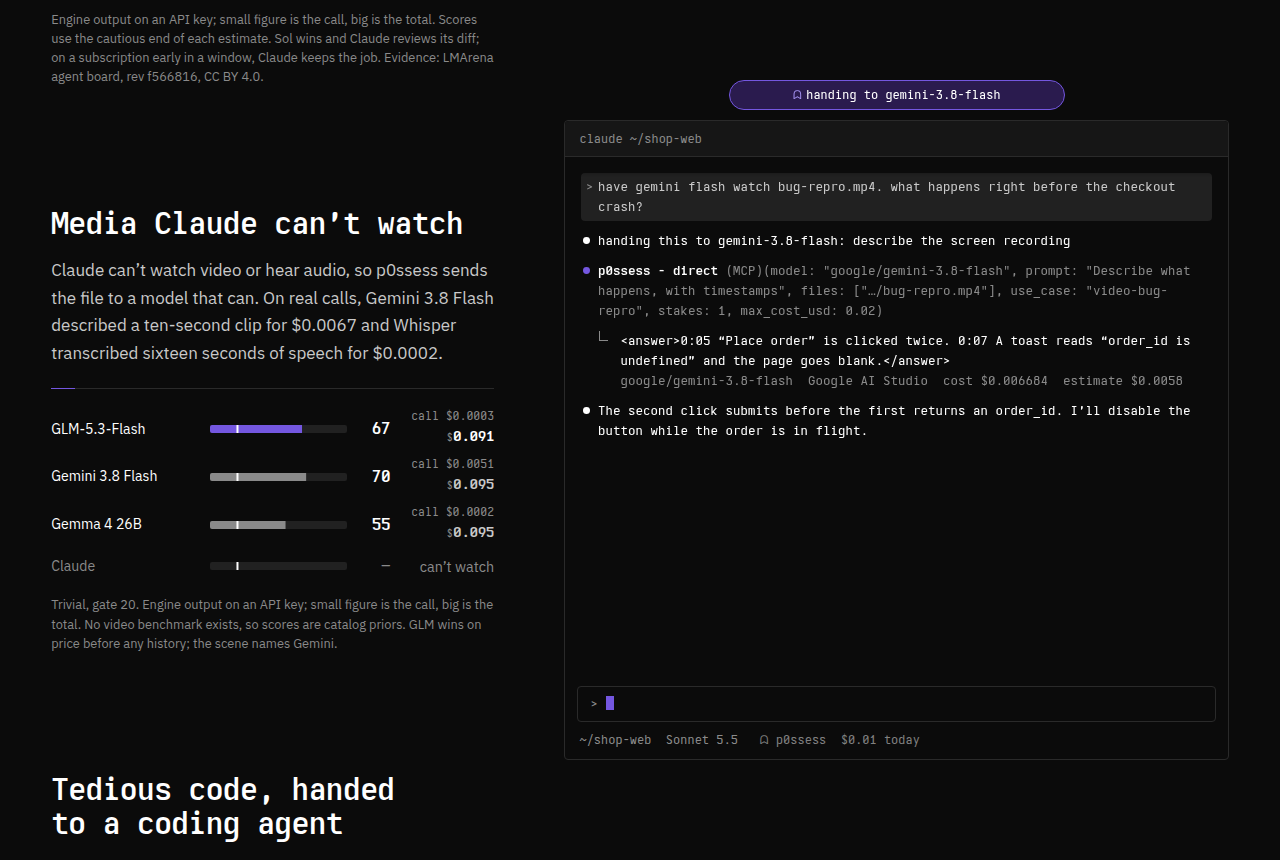
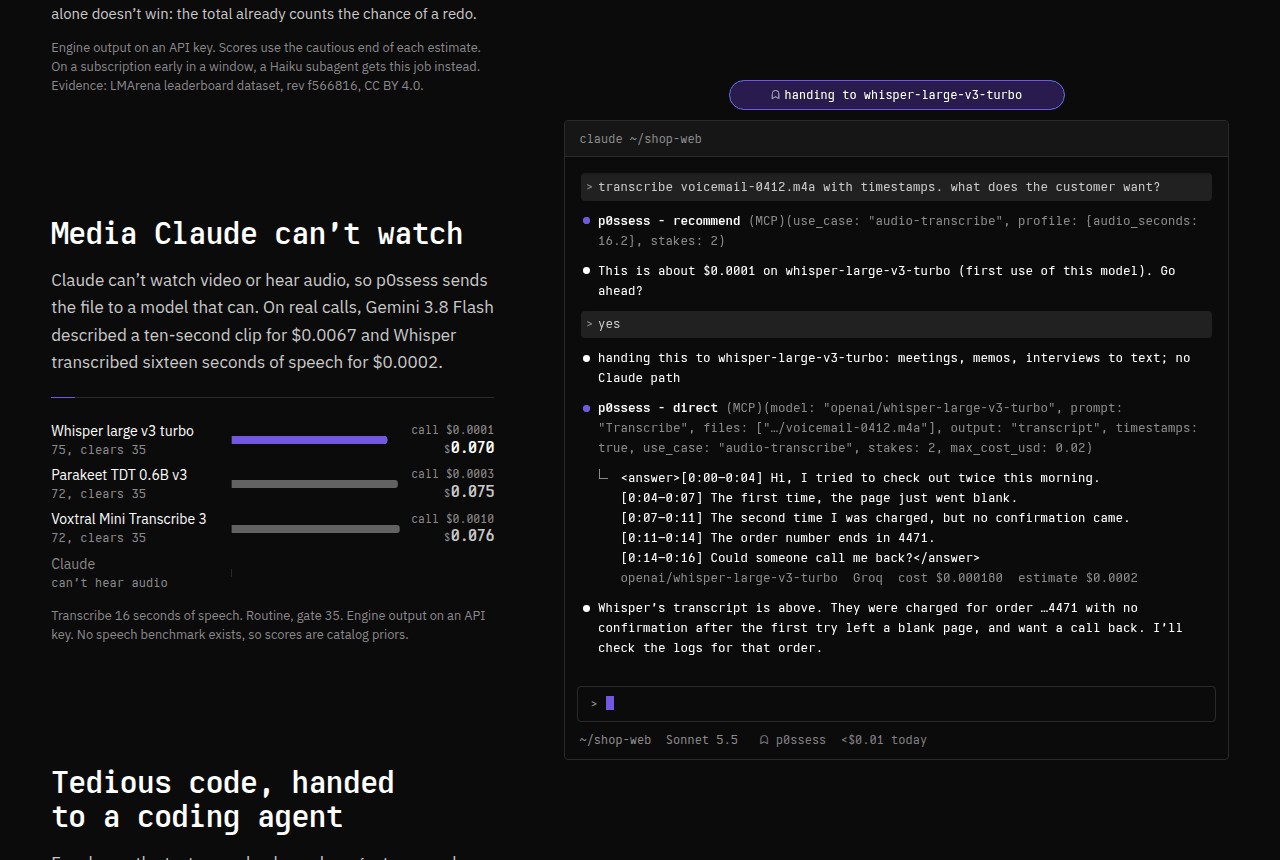
site: charts drawn by total, a PDF example for the engine, audio for media
Every cost comparison now sorts by total with the winner on top, and the
bar is the total, so the shortest bar wins. Each score is a small readout
against its gate ("98, clears 35"). The engine example is pulling tables
from a 50-page PDF: GPT-6 Luna scores 98 to Claude's 99 for a quarter of
the total, with the verbatim engine output in its scene. The media example
is a voicemail transcribed by Whisper, the model its chart picks. The
"Some work stays with Claude" chart is now one sentence, and the engine
heading drops "The" and fits one line on desktop.

diff --git a/site/index.html b/site/index.html
@@ -49,8 +49,8 @@
 
 <section class="sec engine" id="engine" aria-labelledby="engine-h">
   <div class="copy">
-    <h2 id="engine-h">The Predictive Model Engine</h2>
-    <p>Every model that could do a job, Claude included, gets a confidence score out of 100: a cautious estimate that its result will be accepted, from licensed benchmarks, the use-case research and your own history.</p>
+    <h2 id="engine-h">Predictive Model Engine</h2>
+    <p>Every model that could do a job, Claude included, gets a score out of 100: a cautious estimate that its result will be accepted, from licensed benchmarks, the use-case research and your own history.</p>
     <p>Each severity has a gate. Below it, a model isn’t considered. Critical work stays with Claude unless your rule names a model.</p>
     <table class="gates">
       <thead><tr><th scope="col">Severity</th><th scope="col">For example</th><th scope="col">Gate</th><th scope="col">A mistake costs</th></tr></thead>
@@ -61,35 +61,37 @@
         <tr><th scope="row">Critical</th><td data-label="For example">Auth, firewalls, production, money</td><td data-label="Gate">80</td><td data-label="A mistake costs">$10</td></tr>
       </tbody>
     </table>
-    <p>Above the gate, the lowest total wins. Total = the call, plus the Claude time it uses or saves, plus the risk of a redo.</p>
+    <p>Above the gate, the lowest total wins. The total adds the call, the Claude time it uses or saves, and the risk of a redo.</p>
     <figure class="gauge" aria-labelledby="gauge-cap">
-      <p class="gauge-task">Build a feature from a spec; the tests decide. Important, so the gate is 60.</p>
-      <p class="gauge-def" id="total-def">Small figure: the call’s price. Big figure: the total that decides.</p>
-      <div class="axis" aria-hidden="true"><span class="t20">20</span><span class="t35">35</span><span class="t60">60</span><span class="t80">80</span></div>
+      <p class="gauge-task">Pull the tables from a 50-page PDF statement into CSV. Routine, so the gate is 35.</p>
+      <p class="gauge-def">Bars and big figures are totals; the shortest bar wins. Small print: the score and the call’s price.</p>
       <ol class="bars">
-      <li class="pass"><span class="who">Claude Opus 5.5 <small>as an agent</small></span><span class="track" aria-hidden="true"><svg viewBox="0 0 100 10" preserveAspectRatio="none"><rect class="fill" width="82" height="10"/><line class="gate-line" x1="60" x2="60" y1="0" y2="10" vector-effect="non-scaling-stroke"/></svg></span><span class="n">82</span><span class="cost"><span class="call">call $0.84</span><span class="tot"><small>$</small>1.03</span></span><span class="sr-only">clears the gate</span></li>
-      <li class="pass"><span class="who">Claude Sonnet 5.5 <small>in your session</small></span><span class="track" aria-hidden="true"><svg viewBox="0 0 100 10" preserveAspectRatio="none"><rect class="fill" width="71" height="10"/><line class="gate-line" x1="60" x2="60" y1="0" y2="10" vector-effect="non-scaling-stroke"/></svg></span><span class="n">71</span><span class="cost"><span class="call">Claude usage</span><span class="tot"><small>$</small>0.54</span></span><span class="sr-only">clears the gate</span></li>
-      <li class="pass win"><span class="who">GPT-6.1 Sol</span><span class="track" aria-hidden="true"><svg viewBox="0 0 100 10" preserveAspectRatio="none"><rect class="fill" width="65" height="10"/><line class="gate-line" x1="60" x2="60" y1="0" y2="10" vector-effect="non-scaling-stroke"/></svg></span><span class="n">65</span><span class="cost"><span class="call">call $0.21</span><span class="tot"><small>$</small>0.51</span></span><span class="sr-only">clears the gate; lowest total, gets the job</span></li>
-      <li class="fail"><span class="who">DeepSeek V4.1 Flash</span><span class="track" aria-hidden="true"><svg viewBox="0 0 100 10" preserveAspectRatio="none"><rect class="fill" width="40" height="10"/><line class="gate-line" x1="60" x2="60" y1="0" y2="10" vector-effect="non-scaling-stroke"/></svg></span><span class="n">40</span><span class="cost">below the gate</span><span class="sr-only">below the gate</span></li>
-      <li class="fail"><span class="who">GLM-5.3-Flash</span><span class="track" aria-hidden="true"><svg viewBox="0 0 100 10" preserveAspectRatio="none"><rect class="fill" width="35" height="10"/><line class="gate-line" x1="60" x2="60" y1="0" y2="10" vector-effect="non-scaling-stroke"/></svg></span><span class="n">35</span><span class="cost">below the gate</span><span class="sr-only">below the gate</span></li>
+      <li class="win"><span class="who">GPT-6 Luna<span class="score"><span class="sr-only">score </span>98, clears 35</span></span><span class="len" aria-hidden="true"><svg width="100%" height="100%"><rect width="24.4%" height="100%" rx="3"/><rect width="4" height="100%"/></svg></span><span class="cost"><span class="call">call $0.0082</span><span class="tot"><small>$</small>0.072</span></span><span class="sr-only">, lowest total, gets the job</span></li>
+      <li><span class="who">Claude Haiku 5.5 <small>subagent</small><span class="score"><span class="sr-only">score </span>97, clears 35</span></span><span class="len" aria-hidden="true"><svg width="100%" height="100%"><rect width="27.7%" height="100%" rx="3"/><rect width="4" height="100%"/></svg></span><span class="cost"><span class="call">Claude usage</span><span class="tot"><small>$</small>0.082</span></span></li>
+      <li><span class="who">Gemini 3.8 Flash<span class="score"><span class="sr-only">score </span>100, clears 35</span></span><span class="len" aria-hidden="true"><svg width="100%" height="100%"><rect width="41.6%" height="100%" rx="3"/><rect width="4" height="100%"/></svg></span><span class="cost"><span class="call">call $0.062</span><span class="tot"><small>$</small>0.123</span></span></li>
+      <li><span class="who">Gemini 4 Argon<span class="score"><span class="sr-only">score </span>100, clears 35</span></span><span class="len" aria-hidden="true"><svg width="100%" height="100%"><rect width="74.8%" height="100%" rx="3"/><rect width="4" height="100%"/></svg></span><span class="cost"><span class="call">call $0.16</span><span class="tot"><small>$</small>0.221</span></span></li>
+      <li><span class="who">Claude Sonnet 5.5 <small>in session</small><span class="score"><span class="sr-only">score </span>99, clears 35</span></span><span class="len" aria-hidden="true"><svg width="100%" height="100%"><rect width="100.0%" height="100%" rx="3"/><rect width="4" height="100%"/></svg></span><span class="cost"><span class="call">Claude usage</span><span class="tot"><small>$</small>0.296</span></span></li>
       </ol>
-      <figcaption id="gauge-cap">Engine output on an API key; small figure is the call, big is the total. Scores use the cautious end of each estimate. Sol wins and Claude reviews its diff; on a subscription early in a window, Claude keeps the job. Evidence: LMArena agent board, rev f566816, CC BY 4.0.</figcaption>
+      <p class="gauge-note">GPT-6 Luna does it about as well as Claude for a quarter of the total, and under a cent in cash. Above the gate, a higher score alone doesn’t win: the total already counts the chance of a redo.</p>
+      <figcaption id="gauge-cap">Engine output on an API key. Scores use the cautious end of each estimate. On a subscription early in a window, a Haiku subagent gets this job instead. Evidence: LMArena leaderboard dataset, rev f566816, CC BY 4.0.</figcaption>
     </figure>
   </div>
   <details class="scene-wrap"><summary>Show the session</summary>
-  <figure class="scene" data-title="claude ~/billing-api" data-st="idle|" aria-labelledby="t-engine">
-    <figcaption class="sr-only" id="t-engine">Transcript: the engine’s ranking for a feature, and why a cheap model is missing.</figcaption>
+  <figure class="scene" data-title="claude ~/books" data-st="idle|" aria-labelledby="t-engine">
+    <figcaption class="sr-only" id="t-engine">Transcript: the engine’s ranking for pulling tables from a PDF, and what Claude would cost.</figcaption>
     <div class="log">
-      <p class="l in bang">p0ssess engine recommend --use-case code-implement-feature --stakes 3 --top 2</p>
-      <p class="l out" data-d="700">code-implement-feature (#8, agent) · stakes 3 · λ 1.00 (API-key plan: Claude at list price)</p>
-      <p class="l out c">   route   model              total    cash     claude   risk     p_fail</p>
-      <p class="l out c">1  agent   gpt-6.1-sol        $0.5101  $0.2110  $0.1180  $0.1811  0.30    ask: up to $0.633, above the $0.02 per-task limit; edits your code; first use of this model</p>
-      <p class="l out c">2  claude  claude-sonnet-5.5  $0.5395  $0.0000  $0.4000  $0.1395  0.23</p>
-      <p class="l out c">pick: handing this to gpt-6.1-sol: feature or function from a spec; tests must pass</p>
-      <p class="l in">why isn’t deepseek flash on the list?</p>
-      <p class="l ai" data-d="900">It scores 40, under the gate of 60 for important work. The engine says “p_fail up to 0.60 is above the stakes-3 ceiling 0.40”. Scores use the cautious end of each estimate, so Sol’s 0.30 counts as 65.</p>
+      <p class="l in bang">p0ssess engine recommend --use-case pdf-table-extract --top 2</p>
+      <p class="l out" data-d="700">pdf-table-extract (#93, media) · stakes 2 · λ 1.00 (API-key plan: Claude at list price)</p>
+      <p class="l out c">   route            model             total    cash     claude   risk     p_fail</p>
+      <p class="l out c">1  direct           gpt-6-luna        $0.0723  $0.0082  $0.0608  $0.0033  0.01    ask: up to $0.025, above the $0.02 per-task limit; first use of this model</p>
+      <p class="l out c">2  claude-subagent  claude-haiku-5.5  $0.0820  $0.0000  $0.0773  $0.0047  0.02</p>
+      <p class="l out c">pick: handing this to gpt-6-luna: tables from PDF reports or statements to CSV</p>
+      <p class="l out c">      best: gpt-6-luna via direct, $0.008 cash, a mechanical check decides; p_fail 0.01 (LMArena longer query 1448 vs best 1543)</p>
+      <p class="l in">and if you did it yourself?</p>
+      <p class="l tool" data-d="600"><b>p0ssess - recommend</b> (MCP)(use_case: "pdf-table-extract", stakes: 2, top: 10)</p>
+      <p class="l ai" data-d="800">I rank 10th: $0.2959 all in, for a score of 99. That’s about four times Luna’s $0.0723 for 98. A check recomputes the column totals against the printed ones, so a bad CSV gets caught.</p>
     </div>
-    <p class="foot"><span class="me">~/billing-api  Sonnet 5.5</span></p>
+    <p class="foot"><span class="me">~/books  Sonnet 5.5</span></p>
   </figure>
   </details>
 </section>
@@ -100,26 +102,33 @@
     <p>Claude can’t watch video or hear audio, so p0ssess sends the file to a model that can. On real calls, Gemini 3.8 Flash described a ten-second clip for $0.0067 and Whisper transcribed sixteen seconds of speech for $0.0002.</p>
     <figure class="cmp" aria-labelledby="cmp-media">
       <ol class="bars mini">
-      <li class="pass win"><span class="who">GLM-5.3-Flash</span><span class="track" aria-hidden="true"><svg viewBox="0 0 100 10" preserveAspectRatio="none"><rect class="fill" width="67" height="10"/><line class="gate-line" x1="20" x2="20" y1="0" y2="10" vector-effect="non-scaling-stroke"/></svg></span><span class="n">67</span><span class="cost"><span class="call">call $0.0003</span><span class="tot"><small>$</small>0.091</span></span><span class="sr-only">clears the gate; lowest real cost</span></li>
-      <li class="pass"><span class="who">Gemini 3.8 Flash</span><span class="track" aria-hidden="true"><svg viewBox="0 0 100 10" preserveAspectRatio="none"><rect class="fill" width="70" height="10"/><line class="gate-line" x1="20" x2="20" y1="0" y2="10" vector-effect="non-scaling-stroke"/></svg></span><span class="n">70</span><span class="cost"><span class="call">call $0.0051</span><span class="tot"><small>$</small>0.095</span></span><span class="sr-only">clears the gate</span></li>
-      <li class="pass"><span class="who">Gemma 4 26B</span><span class="track" aria-hidden="true"><svg viewBox="0 0 100 10" preserveAspectRatio="none"><rect class="fill" width="55" height="10"/><line class="gate-line" x1="20" x2="20" y1="0" y2="10" vector-effect="non-scaling-stroke"/></svg></span><span class="n">55</span><span class="cost"><span class="call">call $0.0002</span><span class="tot"><small>$</small>0.095</span></span><span class="sr-only">clears the gate</span></li>
-      <li class="none"><span class="who">Claude</span><span class="track" aria-hidden="true"><svg viewBox="0 0 100 10" preserveAspectRatio="none"><line class="gate-line" x1="20" x2="20" y1="0" y2="10" vector-effect="non-scaling-stroke"/></svg></span><span class="n">–</span><span class="cost">can’t watch</span><span class="sr-only">cannot take video</span></li>
+      <li class="win"><span class="who">Whisper large v3 turbo<span class="score"><span class="sr-only">score </span>75, clears 35</span></span><span class="len" aria-hidden="true"><svg width="100%" height="100%"><rect width="92.7%" height="100%" rx="3"/><rect width="4" height="100%"/></svg></span><span class="cost"><span class="call">call $0.0001</span><span class="tot"><small>$</small>0.070</span></span><span class="sr-only">, lowest total, gets the job</span></li>
+      <li><span class="who">Parakeet TDT 0.6B v3<span class="score"><span class="sr-only">score </span>72, clears 35</span></span><span class="len" aria-hidden="true"><svg width="100%" height="100%"><rect width="98.9%" height="100%" rx="3"/><rect width="4" height="100%"/></svg></span><span class="cost"><span class="call">call $0.0003</span><span class="tot"><small>$</small>0.075</span></span></li>
+      <li><span class="who">Voxtral Mini Transcribe 3<span class="score"><span class="sr-only">score </span>72, clears 35</span></span><span class="len" aria-hidden="true"><svg width="100%" height="100%"><rect width="100.0%" height="100%" rx="3"/><rect width="4" height="100%"/></svg></span><span class="cost"><span class="call">call $0.0010</span><span class="tot"><small>$</small>0.076</span></span></li>
+      <li class="none"><span class="who">Claude<span class="score">can’t hear audio</span></span><span class="len" aria-hidden="true"></span><span class="cost"></span></li>
       </ol>
-      <figcaption id="cmp-media">Trivial, gate 20. Engine output on an API key; small figure is the call, big is the total. No video benchmark exists, so scores are catalog priors. GLM wins on price before any history; the scene names Gemini.</figcaption>
+      <figcaption id="cmp-media">Transcribe 16 seconds of speech. Routine, gate 35. Engine output on an API key. No speech benchmark exists, so scores are catalog priors.</figcaption>
     </figure>
   </div>
   <details class="scene-wrap"><summary>Show the session</summary>
   <figure class="scene" data-title="claude ~/shop-web" data-st="idle|" aria-labelledby="t-media">
-    <figcaption class="sr-only" id="t-media">Transcript: a screen recording goes to Gemini 3.8 Flash.</figcaption>
+    <figcaption class="sr-only" id="t-media">Transcript: a support voicemail goes to Whisper for a timed transcript.</figcaption>
     <div class="log">
-      <p class="l in">have gemini flash watch bug-repro.mp4. what happens right before the checkout crash?</p>
-      <p class="l ai ann" data-d="700">handing this to gemini-3.8-flash: describe the screen recording</p>
-      <p class="l tool" data-d="500"><b>p0ssess - direct</b> (MCP)(model: "google/gemini-3.8-flash", prompt: "Describe what happens, with timestamps", files: ["…/bug-repro.mp4"], use_case: "video-bug-repro", stakes: 1, max_cost_usd: 0.02)</p>
-      <p class="l res" data-d="1500">&lt;answer&gt;0:05 “Place order” is clicked twice. 0:07 A toast reads “order_id is undefined” and the page goes blank.&lt;/answer&gt;</p>
-      <p class="l res c dim" data-st="idle|$0.01 today">google/gemini-3.8-flash  Google AI Studio  cost $0.006684  estimate $0.0058</p>
-      <p class="l ai" data-d="800">The second click submits before the first returns an order_id. I’ll disable the button while the order is in flight.</p>
+      <p class="l in">transcribe voicemail-0412.m4a with timestamps. what does the customer want?</p>
+      <p class="l tool" data-d="600"><b>p0ssess - recommend</b> (MCP)(use_case: "audio-transcribe", profile: {audio_seconds: 16.2}, stakes: 2)</p>
+      <p class="l ai" data-d="700">This is about $0.0001 on whisper-large-v3-turbo (first use of this model). Go ahead?</p>
+      <p class="l in">yes</p>
+      <p class="l ai ann" data-d="500">handing this to whisper-large-v3-turbo: meetings, memos, interviews to text; no Claude path</p>
+      <p class="l tool" data-d="500"><b>p0ssess - direct</b> (MCP)(model: "openai/whisper-large-v3-turbo", prompt: "Transcribe", files: ["…/voicemail-0412.m4a"], output: "transcript", timestamps: true, use_case: "audio-transcribe", stakes: 2, max_cost_usd: 0.02)</p>
+      <p class="l res" data-d="1500">&lt;answer&gt;[0:00–0:04] Hi, I tried to check out twice this morning.</p>
+      <p class="l res c">[0:04–0:07] The first time, the page just went blank.</p>
+      <p class="l res c">[0:07–0:11] The second time I was charged, but no confirmation came.</p>
+      <p class="l res c">[0:11–0:14] The order number ends in 4471.</p>
+      <p class="l res c">[0:14–0:16] Could someone call me back?&lt;/answer&gt;</p>
+      <p class="l res c dim" data-st="idle|&lt;$0.01 today">openai/whisper-large-v3-turbo  Groq  cost $0.000180  estimate $0.0002</p>
+      <p class="l ai" data-d="800">Whisper’s transcript is above. They were charged for order …4471 with no confirmation after the first try left a blank page, and want a call back. I’ll check the logs for that order.</p>
     </div>
-    <p class="foot"><span class="me">~/shop-web  Sonnet 5.5</span><span class="seg idle"><span class="mark" aria-hidden="true">ᗣ</span> p0ssess  $0.01 today</span></p>
+    <p class="foot"><span class="me">~/shop-web  Sonnet 5.5</span><span class="seg idle"><span class="mark" aria-hidden="true">ᗣ</span> p0ssess  &lt;$0.01 today</span></p>
   </figure>
   </details>
 </section>
@@ -130,12 +139,12 @@
     <p>For chores the tests can check, a relay agent runs a cheap coding model in its own sandbox, on a separate git worktree. Claude reads the diff and runs the tests before anything lands. Work that edits your code always asks first.</p>
     <figure class="cmp" aria-labelledby="cmp-chores">
       <ol class="bars mini">
-      <li class="pass win"><span class="who">DeepSeek V4.1 Flash</span><span class="track" aria-hidden="true"><svg viewBox="0 0 100 10" preserveAspectRatio="none"><rect class="fill" width="78" height="10"/><line class="gate-line" x1="35" x2="35" y1="0" y2="10" vector-effect="non-scaling-stroke"/></svg></span><span class="n">78</span><span class="cost"><span class="call">call $0.0041</span><span class="tot"><small>$</small>0.148</span></span><span class="sr-only">clears the gate; lowest real cost</span></li>
-      <li class="pass"><span class="who">Claude Haiku 5.5 <small>subagent</small></span><span class="track" aria-hidden="true"><svg viewBox="0 0 100 10" preserveAspectRatio="none"><rect class="fill" width="73" height="10"/><line class="gate-line" x1="35" x2="35" y1="0" y2="10" vector-effect="non-scaling-stroke"/></svg></span><span class="n">73</span><span class="cost"><span class="call">Claude usage</span><span class="tot"><small>$</small>0.169</span></span><span class="sr-only">clears the gate</span></li>
-      <li class="pass"><span class="who">Claude <small>in session</small></span><span class="track" aria-hidden="true"><svg viewBox="0 0 100 10" preserveAspectRatio="none"><rect class="fill" width="78" height="10"/><line class="gate-line" x1="35" x2="35" y1="0" y2="10" vector-effect="non-scaling-stroke"/></svg></span><span class="n">78</span><span class="cost"><span class="call">Claude usage</span><span class="tot"><small>$</small>0.227</span></span><span class="sr-only">clears the gate</span></li>
-      <li class="pass"><span class="who">GPT-6.1 Sol</span><span class="track" aria-hidden="true"><svg viewBox="0 0 100 10" preserveAspectRatio="none"><rect class="fill" width="83" height="10"/><line class="gate-line" x1="35" x2="35" y1="0" y2="10" vector-effect="non-scaling-stroke"/></svg></span><span class="n">83</span><span class="cost"><span class="call">call $0.11</span><span class="tot"><small>$</small>0.241</span></span><span class="sr-only">clears the gate</span></li>
+      <li class="win"><span class="who">DeepSeek V4.1 Flash<span class="score"><span class="sr-only">score </span>78, clears 35</span></span><span class="len" aria-hidden="true"><svg width="100%" height="100%"><rect width="61.4%" height="100%" rx="3"/><rect width="4" height="100%"/></svg></span><span class="cost"><span class="call">call $0.0041</span><span class="tot"><small>$</small>0.148</span></span><span class="sr-only">, lowest total, gets the job</span></li>
+      <li><span class="who">Claude Haiku 5.5 <small>subagent</small><span class="score"><span class="sr-only">score </span>73, clears 35</span></span><span class="len" aria-hidden="true"><svg width="100%" height="100%"><rect width="70.2%" height="100%" rx="3"/><rect width="4" height="100%"/></svg></span><span class="cost"><span class="call">Claude usage</span><span class="tot"><small>$</small>0.169</span></span></li>
+      <li><span class="who">Claude <small>in session</small><span class="score"><span class="sr-only">score </span>78, clears 35</span></span><span class="len" aria-hidden="true"><svg width="100%" height="100%"><rect width="94.5%" height="100%" rx="3"/><rect width="4" height="100%"/></svg></span><span class="cost"><span class="call">Claude usage</span><span class="tot"><small>$</small>0.227</span></span></li>
+      <li><span class="who">GPT-6.1 Sol<span class="score"><span class="sr-only">score </span>83, clears 35</span></span><span class="len" aria-hidden="true"><svg width="100%" height="100%"><rect width="100.0%" height="100%" rx="3"/><rect width="4" height="100%"/></svg></span><span class="cost"><span class="call">call $0.11</span><span class="tot"><small>$</small>0.241</span></span></li>
       </ol>
-      <figcaption id="cmp-chores">Routine, gate 35. Engine output on an API key; small figure is the call, big is the total. Evidence: LMArena leaderboard dataset, rev f566816, CC BY 4.0.</figcaption>
+      <figcaption id="cmp-chores">Routine, gate 35. Engine output on an API key. Evidence: LMArena leaderboard dataset, rev f566816, CC BY 4.0.</figcaption>
     </figure>
   </div>
   <details class="scene-wrap"><summary>Show the session</summary>
@@ -165,12 +174,12 @@
     <p>Before a merge, ask for a review from outside Claude’s family. Claude checks each finding against the code and fixes what holds up.</p>
     <figure class="cmp" aria-labelledby="cmp-review">
       <ol class="bars mini">
-      <li class="pass win"><span class="who">GLM-5.3-Flash</span><span class="track" aria-hidden="true"><svg viewBox="0 0 100 10" preserveAspectRatio="none"><rect class="fill" width="84" height="10"/><line class="gate-line" x1="35" x2="35" y1="0" y2="10" vector-effect="non-scaling-stroke"/></svg></span><span class="n">84</span><span class="cost"><span class="call">call $0.0021</span><span class="tot"><small>$</small>0.108</span></span><span class="sr-only">clears the gate; lowest real cost</span></li>
-      <li class="pass"><span class="who">DeepSeek V4.1 Flash</span><span class="track" aria-hidden="true"><svg viewBox="0 0 100 10" preserveAspectRatio="none"><rect class="fill" width="83" height="10"/><line class="gate-line" x1="35" x2="35" y1="0" y2="10" vector-effect="non-scaling-stroke"/></svg></span><span class="n">83</span><span class="cost"><span class="call">call $0.0032</span><span class="tot"><small>$</small>0.110</span></span><span class="sr-only">clears the gate</span></li>
-      <li class="pass"><span class="who">Claude <small>in session</small></span><span class="track" aria-hidden="true"><svg viewBox="0 0 100 10" preserveAspectRatio="none"><rect class="fill" width="82" height="10"/><line class="gate-line" x1="35" x2="35" y1="0" y2="10" vector-effect="non-scaling-stroke"/></svg></span><span class="n">82</span><span class="cost"><span class="call">Claude usage</span><span class="tot"><small>$</small>0.146</span></span><span class="sr-only">clears the gate</span></li>
-      <li class="pass"><span class="who">GPT-6.1 Sol</span><span class="track" aria-hidden="true"><svg viewBox="0 0 100 10" preserveAspectRatio="none"><rect class="fill" width="87" height="10"/><line class="gate-line" x1="35" x2="35" y1="0" y2="10" vector-effect="non-scaling-stroke"/></svg></span><span class="n">87</span><span class="cost"><span class="call">call $0.095</span><span class="tot"><small>$</small>0.195</span></span><span class="sr-only">clears the gate</span></li>
+      <li class="win"><span class="who">GLM-5.3-Flash<span class="score"><span class="sr-only">score </span>84, clears 35</span></span><span class="len" aria-hidden="true"><svg width="100%" height="100%"><rect width="55.3%" height="100%" rx="3"/><rect width="4" height="100%"/></svg></span><span class="cost"><span class="call">call $0.0021</span><span class="tot"><small>$</small>0.108</span></span><span class="sr-only">, lowest total, gets the job</span></li>
+      <li><span class="who">DeepSeek V4.1 Flash<span class="score"><span class="sr-only">score </span>83, clears 35</span></span><span class="len" aria-hidden="true"><svg width="100%" height="100%"><rect width="56.4%" height="100%" rx="3"/><rect width="4" height="100%"/></svg></span><span class="cost"><span class="call">call $0.0032</span><span class="tot"><small>$</small>0.110</span></span></li>
+      <li><span class="who">Claude <small>in session</small><span class="score"><span class="sr-only">score </span>82, clears 35</span></span><span class="len" aria-hidden="true"><svg width="100%" height="100%"><rect width="74.9%" height="100%" rx="3"/><rect width="4" height="100%"/></svg></span><span class="cost"><span class="call">Claude usage</span><span class="tot"><small>$</small>0.146</span></span></li>
+      <li><span class="who">GPT-6.1 Sol<span class="score"><span class="sr-only">score </span>87, clears 35</span></span><span class="len" aria-hidden="true"><svg width="100%" height="100%"><rect width="100.0%" height="100%" rx="3"/><rect width="4" height="100%"/></svg></span><span class="cost"><span class="call">call $0.095</span><span class="tot"><small>$</small>0.195</span></span></li>
       </ol>
-      <figcaption id="cmp-review">Routine, gate 35. Engine output on an API key; small figure is the call, big is the total. Evidence: LMArena leaderboard dataset, rev f566816, CC BY 4.0.</figcaption>
+      <figcaption id="cmp-review">Routine, gate 35. Engine output on an API key. Evidence: LMArena leaderboard dataset, rev f566816, CC BY 4.0.</figcaption>
     </figure>
   </div>
   <details class="scene-wrap"><summary>Show the session</summary>
@@ -199,15 +208,15 @@
     <figure class="cmp" aria-labelledby="cmp-usage">
       <p class="cmp-label">Early: 5-hour window 5% used, projected 17%</p>
       <ol class="bars mini">
-        <li class="pass win"><span class="who">Claude <small>in session</small></span><span class="track" aria-hidden="true"><svg viewBox="0 0 100 10" preserveAspectRatio="none"><rect class="fill" width="71" height="10"/><line class="gate-line" x1="60" x2="60" y1="0" y2="10" vector-effect="non-scaling-stroke"/></svg></span><span class="n">71</span><span class="cost"><span class="call">in plan</span><span class="tot"><small>$</small>0.346</span></span><span class="sr-only">clears the gate; lowest real cost</span></li>
-        <li class="pass"><span class="who">GPT-6.1 Sol</span><span class="track" aria-hidden="true"><svg viewBox="0 0 100 10" preserveAspectRatio="none"><rect class="fill" width="65" height="10"/><line class="gate-line" x1="60" x2="60" y1="0" y2="10" vector-effect="non-scaling-stroke"/></svg></span><span class="n">65</span><span class="cost"><span class="call">call $0.74</span><span class="tot"><small>$</small>0.893</span></span><span class="sr-only">clears the gate</span></li>
+      <li class="win"><span class="who">Claude <small>in session</small><span class="score"><span class="sr-only">score </span>71, clears 60</span></span><span class="len" aria-hidden="true"><svg width="100%" height="100%"><rect width="23.7%" height="100%" rx="3"/><rect width="4" height="100%"/></svg></span><span class="cost"><span class="call">in plan</span><span class="tot"><small>$</small>0.346</span></span><span class="sr-only">, lowest total, gets the job</span></li>
+      <li><span class="who">GPT-6.1 Sol<span class="score"><span class="sr-only">score </span>65, clears 60</span></span><span class="len" aria-hidden="true"><svg width="100%" height="100%"><rect width="61.3%" height="100%" rx="3"/><rect width="4" height="100%"/></svg></span><span class="cost"><span class="call">call $0.74</span><span class="tot"><small>$</small>0.893</span></span></li>
       </ol>
       <p class="cmp-label">Late: 78% used, projected 89%</p>
       <ol class="bars mini">
-        <li class="pass win"><span class="who">GPT-6.1 Sol</span><span class="track" aria-hidden="true"><svg viewBox="0 0 100 10" preserveAspectRatio="none"><rect class="fill" width="65" height="10"/><line class="gate-line" x1="60" x2="60" y1="0" y2="10" vector-effect="non-scaling-stroke"/></svg></span><span class="n">65</span><span class="cost"><span class="call">call $0.74</span><span class="tot"><small>$</small>1.241</span></span><span class="sr-only">clears the gate; lowest real cost</span></li>
-        <li class="pass"><span class="who">Claude <small>in session</small></span><span class="track" aria-hidden="true"><svg viewBox="0 0 100 10" preserveAspectRatio="none"><rect class="fill" width="71" height="10"/><line class="gate-line" x1="60" x2="60" y1="0" y2="10" vector-effect="non-scaling-stroke"/></svg></span><span class="n">71</span><span class="cost"><span class="call">in plan</span><span class="tot"><small>$</small>1.457</span></span><span class="sr-only">clears the gate</span></li>
+      <li class="win"><span class="who">GPT-6.1 Sol<span class="score"><span class="sr-only">score </span>65, clears 60</span></span><span class="len" aria-hidden="true"><svg width="100%" height="100%"><rect width="85.2%" height="100%" rx="3"/><rect width="4" height="100%"/></svg></span><span class="cost"><span class="call">call $0.74</span><span class="tot"><small>$</small>1.241</span></span><span class="sr-only">, lowest total, gets the job</span></li>
+      <li><span class="who">Claude <small>in session</small><span class="score"><span class="sr-only">score </span>71, clears 60</span></span><span class="len" aria-hidden="true"><svg width="100%" height="100%"><rect width="100.0%" height="100%" rx="3"/><rect width="4" height="100%"/></svg></span><span class="cost"><span class="call">in plan</span><span class="tot"><small>$</small>1.457</span></span></li>
       </ol>
-      <figcaption id="cmp-usage">Important, gate 60. Engine output for example readings; small figure is the call, big is the total. Claude’s time counts at 0.17 of list price early, 0.82 late. Evidence: LMArena agent board, rev f566816, CC BY 4.0.</figcaption>
+      <figcaption id="cmp-usage">Important, gate 60. Engine output for example readings. Claude’s time counts at 0.17 of list price early, 0.82 late. Evidence: LMArena agent board, rev f566816, CC BY 4.0.</figcaption>
     </figure>
   </div>
   <details class="scene-wrap"><summary>Show the session</summary>
@@ -233,15 +242,7 @@
 <section class="sec" id="stakes" aria-labelledby="stakes-h">
   <div class="copy">
     <h2 id="stakes-h">Some work stays with Claude</h2>
-    <p>For critical work the gate decides before price does, and the tools enforce it. Small work stays without a word. If a rating looks wrong, say so.</p>
-    <figure class="cmp" aria-labelledby="cmp-stakes">
-      <ol class="bars mini">
-      <li class="pass win"><span class="who">Claude <small>in session</small></span><span class="track" aria-hidden="true"><svg viewBox="0 0 100 10" preserveAspectRatio="none"><rect class="fill" width="82" height="10"/><line class="gate-line" x1="80" x2="80" y1="0" y2="10" vector-effect="non-scaling-stroke"/></svg></span><span class="n">82</span><span class="cost"><span class="call">Claude usage</span><span class="tot"><small>$</small>0.354</span></span><span class="sr-only">clears the gate; keeps the work</span></li>
-      <li class="fail"><span class="who">Claude Haiku 5.5 <small>subagent</small></span><span class="track" aria-hidden="true"><svg viewBox="0 0 100 10" preserveAspectRatio="none"><rect class="fill" width="77" height="10"/><line class="gate-line" x1="80" x2="80" y1="0" y2="10" vector-effect="non-scaling-stroke"/></svg></span><span class="n">77</span><span class="cost">below gate</span><span class="sr-only">below the gate</span></li>
-      <li class="none"><span class="who">GPT-6.1 Sol</span><span class="track" aria-hidden="true"><svg viewBox="0 0 100 10" preserveAspectRatio="none"><line class="gate-line" x1="80" x2="80" y1="0" y2="10" vector-effect="non-scaling-stroke"/></svg></span><span class="n">–</span><span class="cost">needs a rule</span><span class="sr-only">not considered: critical work needs a rule naming the model</span></li>
-      </ol>
-      <figcaption id="cmp-stakes">Critical, gate 80. Engine output on an API key; small figure is the call, big is the total. Evidence: LMArena leaderboard dataset, rev f566816, CC BY 4.0. A rename stays too: a hand-off would cost Claude $0.118 to save $0.037.</figcaption>
-    </figure>
+    <p>For critical work the gate decides before price does, and the tools enforce it. The firewall change stays with Claude; the rename costs more to hand off than it saves. If a rating looks wrong, say so.</p>
   </div>
   <details class="scene-wrap"><summary>Show the session</summary>
   <figure class="scene" data-title="claude ~/edge" data-st="idle|" aria-labelledby="t-stakes">
@@ -425,7 +426,7 @@
 <div class="stage">
 <div class="pin">
   <nav class="island" aria-label="Sections">
-    <ol><li><a href="#top" aria-label="Top" title="Top"></a></li><li><a href="#engine" aria-label="The Predictive Model Engine" title="The Predictive Model Engine"></a></li><li><a href="#media" aria-label="Media" title="Media"></a></li><li><a href="#chores" aria-label="Coding chores" title="Coding chores"></a></li><li><a href="#review" aria-label="Second opinion" title="Second opinion"></a></li><li><a href="#usage" aria-label="Usage" title="Usage"></a></li><li><a href="#stakes" aria-label="Stays with Claude" title="Stays with Claude"></a></li><li><a href="#rules" aria-label="Rules" title="Rules"></a></li><li><a href="#ghost" aria-label="Status line" title="Status line"></a></li><li><a href="#sandbox" aria-label="Sandbox" title="Sandbox"></a></li><li><a href="#wont" aria-label="What it won’t do" title="What it won’t do"></a></li><li><a href="#data" aria-label="Use cases" title="Use cases"></a></li><li><a href="#try" aria-label="Try it" title="Try it"></a></li></ol>
+    <ol><li><a href="#top" aria-label="Top" title="Top"></a></li><li><a href="#engine" aria-label="Predictive Model Engine" title="Predictive Model Engine"></a></li><li><a href="#media" aria-label="Media" title="Media"></a></li><li><a href="#chores" aria-label="Coding chores" title="Coding chores"></a></li><li><a href="#review" aria-label="Second opinion" title="Second opinion"></a></li><li><a href="#usage" aria-label="Usage" title="Usage"></a></li><li><a href="#stakes" aria-label="Stays with Claude" title="Stays with Claude"></a></li><li><a href="#rules" aria-label="Rules" title="Rules"></a></li><li><a href="#ghost" aria-label="Status line" title="Status line"></a></li><li><a href="#sandbox" aria-label="Sandbox" title="Sandbox"></a></li><li><a href="#wont" aria-label="What it won’t do" title="What it won’t do"></a></li><li><a href="#data" aria-label="Use cases" title="Use cases"></a></li><li><a href="#try" aria-label="Try it" title="Try it"></a></li></ol>
     <span class="live" aria-hidden="true"><span class="mark">ᗣ</span><span class="live-text"></span></span>
   </nav>
   <div class="term">

diff --git a/site/style.css b/site/style.css
@@ -37,6 +37,7 @@
   --violet: #7457e0;        /* lines, dots, bars; never small text */
   --violet-deep: #2a1b4e;   /* fills, glow, selection */
   --violet-ink: #a593f2;    /* text and links on dark */
+  --bar: #626262;           /* chart bars that lose; 3.2:1 on the ground */
   --st-idle: #808080;       /* Claude Code's 256-color status codes */
   --st-run: #bcbcbc;
   --st-amber: #ffaf00;
@@ -139,45 +140,38 @@ td { color: var(--ink-body); }
 .gauge { margin-top: 1.6rem !important; }
 .cmp { margin-top: 1.3rem !important; }
 .gauge-task { color: var(--ink) !important; font-size: 0.98rem; }
-.axis, .bars li { display: grid; grid-template-columns: minmax(0, 1fr) 2.6rem; column-gap: 0.9rem; align-items: center; }
-.axis { position: relative; margin-top: 1rem; height: 1.2rem; font: 700 0.78rem/1 var(--mono); color: var(--ink-2); --w: calc(100% - 2.6rem - 0.9rem); }
-.axis span { position: absolute; top: 0.2rem; transform: translateX(-50%); }
-.axis .t20 { left: calc(var(--w) * 0.2); }
-.axis .t35 { left: calc(var(--w) * 0.35); }
-.axis .t60 { left: calc(var(--w) * 0.6); color: var(--ink); }
-.axis .t80 { left: calc(var(--w) * 0.8); }
-.bars { list-style: none; padding: 0; margin: 0.2rem 0 0; }
-.bars li { padding: 0.45rem 0 0.35rem; font-size: 0.93rem; row-gap: 0.3rem; }
-.bars .who { grid-column: 1; grid-row: 1; color: var(--ink); line-height: 1.25; }
-.bars .who small { font-size: 0.8rem; color: var(--ink-2); margin-left: 0.3rem; }
-.bars .cost { grid-column: 1 / -1; grid-row: 1; justify-self: end; }
-.bars .track { grid-column: 1; grid-row: 2; display: block; height: 10px; background: var(--surface-hi); border-radius: 2px; overflow: hidden; }
-.bars .n { grid-column: 2; grid-row: 2; }
-.bars svg { display: block; width: 100%; height: 100%; }
-.bars .fill { fill: var(--ink-3); }
-.bars .pass .fill { fill: var(--ink-2); }
-.bars .win .fill { fill: var(--violet); }
-.bars .gate-line { stroke: var(--ink); stroke-width: 2; }
-.bars .n, .bars .cost { font-family: var(--mono); font-weight: 700; letter-spacing: -0.03em; font-variant-numeric: tabular-nums; }
-.bars .n { text-align: right; color: var(--ink); font-size: 1.15rem; }
-.bars .cost { color: var(--ink-body); font-size: 0.95rem; }
-.bars .cost small, .bars .n small { font-size: 0.72em; font-weight: 400; color: var(--ink-2); margin-right: 0.08em; }
+.gauge-def, .gauge-note { font-size: 0.86rem; color: var(--ink-2) !important; margin-top: 0.4rem !important; }
+.gauge-note { color: var(--ink-body) !important; font-size: 0.93rem; margin-top: 0.9rem !important; }
+
+/* Cost comparisons: rows sorted by total, the bar is the total, the shortest bar wins.
+   Bars grow from one hairline baseline; the winner is violet, the rest one gray. */
+.bars { list-style: none; padding: 0; margin: 0.9rem 0 0; }
+.bars li {
+  display: grid; grid-template-columns: 10.5rem minmax(0, 1fr) 5.6rem; column-gap: 0.9rem; align-items: center;
+  padding: 0.45rem 0; font-size: 0.93rem;
+}
+.bars .who { color: var(--ink); line-height: 1.25; }
+.bars .who small { font-size: 0.8rem; color: var(--ink-2); white-space: nowrap; }
+.bars .score { display: block; margin-top: 0.15rem; font: 400 0.76rem/1.2 var(--mono); color: var(--ink-2); font-variant-numeric: tabular-nums; }
+.bars .len { display: block; height: 12px; box-shadow: -1px 0 0 var(--line); }
+.bars svg { display: block; overflow: visible; }
+.bars rect { fill: var(--bar); }
+.bars .win rect { fill: var(--violet); }
+.bars .cost { text-align: right; font: 700 1.1rem/1.15 var(--mono); letter-spacing: -0.03em; font-variant-numeric: tabular-nums; color: var(--ink-body); }
 .bars .win .cost { color: var(--ink); }
-.bars .cost .call { font: 400 0.72rem/1.2 var(--mono); letter-spacing: 0; color: var(--ink-2); margin-right: 0.7ch; }
-.bars.mini .cost .call { display: block; margin: 0 0 1px; }
-.gauge-def { font-size: 0.86rem; color: var(--ink-2) !important; margin-top: 0.4rem !important; }
-.bars .fail .who, .bars .fail .n, .bars .fail .cost,
-.bars .none .who, .bars .none .n, .bars .none .cost { color: var(--ink-2); font-weight: 400; }
-.bars .fail .cost, .bars .none .cost { font-family: var(--sans); font-size: 0.86rem; letter-spacing: 0; }
+.bars .cost small { font-size: 0.72em; font-weight: 400; color: var(--ink-2); margin-right: 0.08em; }
+.bars .cost .call { display: block; margin-bottom: 1px; white-space: nowrap; font: 400 0.72rem/1.2 var(--mono); letter-spacing: 0; color: var(--ink-2); }
+.bars .tot { display: block; }
+.bars .none .who { color: var(--ink-2); }
+.bars .none .cost { color: var(--ink-2); font-weight: 400; }
 .gauge figcaption, .cmp figcaption { margin-top: 0.7rem; font-size: 0.8rem; line-height: 1.5; color: var(--ink-2); }
 
-/* Compact comparisons: one line per model. */
-.bars.mini li { grid-template-columns: 9.2rem minmax(0, 1fr) 2rem 5.8rem; column-gap: 0.7rem; padding: 0.3rem 0; row-gap: 0; font-size: 0.88rem; }
-.bars.mini .who, .bars.mini .track, .bars.mini .n, .bars.mini .cost { grid-row: 1; grid-column: auto; justify-self: stretch; }
-.bars.mini .who small { display: block; margin: 0; font-size: 0.76rem; line-height: 1.2; }
-.bars.mini .track { height: 8px; }
-.bars.mini .n { font-size: 1rem; }
-.bars.mini .cost { text-align: right; font-size: 0.9rem; }
+/* Compact comparisons */
+.bars.mini { margin-top: 0.4rem; }
+.bars.mini li { grid-template-columns: 10.6rem minmax(0, 1fr) 5.2rem; column-gap: 0.7rem; padding: 0.3rem 0; font-size: 0.88rem; }
+.bars.mini .who small { font-size: 0.76rem; }
+.bars.mini .len { height: 8px; }
+.bars.mini .cost { font-size: 0.95rem; }
 .cmp-label { font-size: 0.84rem; color: var(--ink-2) !important; margin-top: 0.7rem !important; }
 .cmp-label:first-child { margin-top: 0 !important; }
 
@@ -366,8 +360,8 @@ td { color: var(--ink-body); }
   body { font-size: 1rem; }
   .lockup { --px: 4px; }
   .states li { grid-template-columns: 1fr; gap: 0.3rem; }
-  .bars.mini li { grid-template-columns: 7.2rem minmax(0, 1fr) 1.9rem 5.2rem; column-gap: 0.5rem; font-size: 0.82rem; }
-  .bars.mini .cost { font-size: 0.82rem; }
+  .bars li, .bars.mini li { grid-template-columns: 7.4rem minmax(0, 1fr) 5.5rem; column-gap: 0.5rem; font-size: 0.84rem; }
+  .bars .cost, .bars.mini .cost { font-size: 0.9rem; }
   .cases tr { grid-template-columns: 1fr; row-gap: 0.1rem; }
   .cases td:nth-child(3) { text-align: left; }
   .term, .scene { font-size: 11.5px; }
@@ -389,6 +383,7 @@ td { color: var(--ink-body); }
   html.js .sec.hero { min-height: 100vh; padding-top: max(24px, calc(50vh - 350px)); padding-bottom: 6vh; justify-content: flex-start; }
   html.js .sec.hero .hint { margin-top: auto !important; padding-top: 2rem; }
   html.js .lockup { --px: 6px; }
+  html.js .engine h2 { font-size: min(2.45vw, 2rem); white-space: nowrap; }
   .pin {
     position: sticky;
     top: max(16px, calc(50vh - 350px));

diff --git a/site/shoot.py b/site/shoot.py
@@ -31,9 +31,9 @@ url = origin + "/index.html"
 log = []
 
 desk = ["top", "engine", "gauge", "media", "chores", "review", "usage", "stakes", "rules", "ghost", "sandbox", "wont", "data", "try", "end"]
-phone = ["top", "engine", "gauge", "media-cmp", "chores-cmp", "review-cmp", "usage-cmp", "stakes-cmp", "data"]
+phone = ["top", "engine", "gauge", "media-cmp", "chores-cmp", "review-cmp", "usage-cmp", "data"]
 # Shots that start at a part of a section rather than the section itself.
-parts = {"gauge": "#engine .gauge", "gates": "#engine .gates", "media-cmp": "#cmp-media", "chores-cmp": "#cmp-chores", "review-cmp": "#cmp-review", "stakes-cmp": "#cmp-stakes"}
+parts = {"gauge": "#engine .gauge", "gates": "#engine .gates", "media-cmp": "#cmp-media", "chores-cmp": "#cmp-chores", "review-cmp": "#cmp-review"}
 
 with sync_playwright() as p:
     b = p.chromium.launch(executable_path=args.browser, headless=True,

diff --git a/site/README.md b/site/README.md
@@ -42,7 +42,7 @@ Each section holds its scene as plain markup in a `<figure class="scene">` insid
 
 The `.foot` inside each figure is the final status line for the static version; keep it in step with the last `data-st`.
 
-Transcripts must match what the plugin does (see `docs/`). Costs come from measured runs, or from `p0ssess engine recommend --json` for the comparison charts: a score is 100 × (1 − `p_fail_upper`), a cost is the option's `total_usd`, rounded. The usage example feeds two status-line readings through `p0ssess statusline` in a scratch `P0SSESS_HOME`.
+Transcripts must match what the plugin does (see `docs/`). Costs come from measured runs, or from `p0ssess engine recommend --json` for the comparison charts: a score is 100 × (1 − `p_fail_upper`), a cost is the option's `total_usd`, rounded. Rows are sorted by total, and each bar is the total as a share of the largest total in that chart (an SVG `rect` width, since the CSP forbids inline styles), so the shortest bar wins. The engine example is `--use-case pdf-table-extract` and the media one `--use-case audio-transcribe --audio-seconds 16.2`, both in a scratch `P0SSESS_HOME` with `plan = "api"` and no history. The usage example feeds two status-line readings through `p0ssess statusline` in a scratch `P0SSESS_HOME`.
 
 ## Deploy
 
